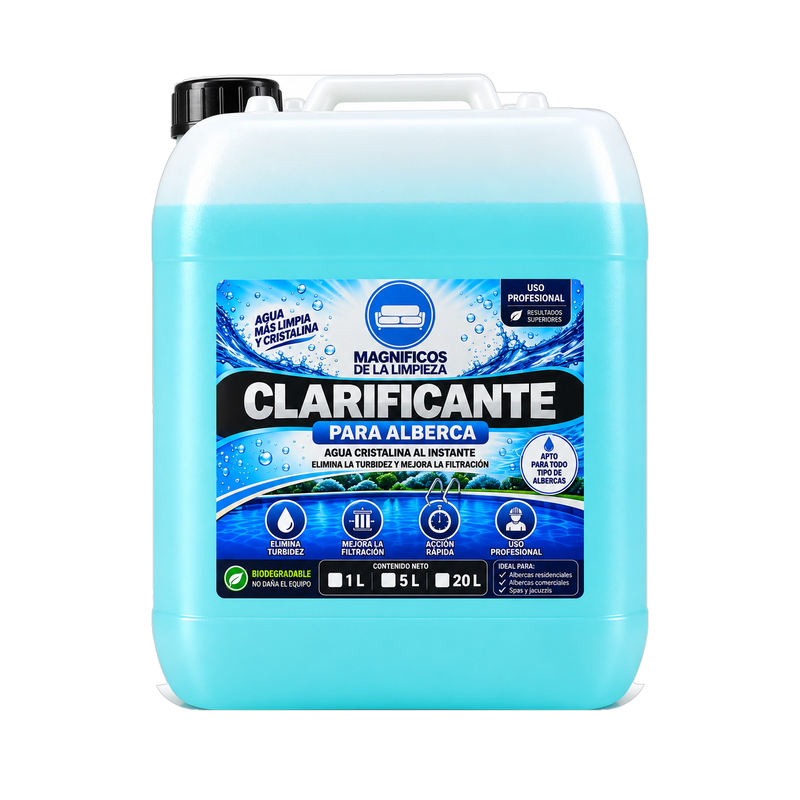
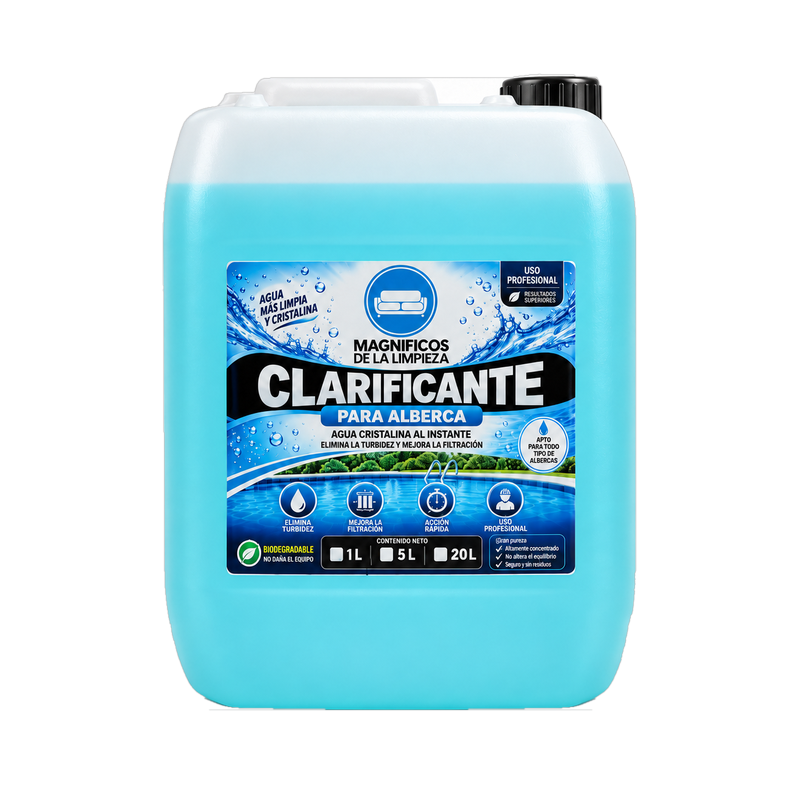
Nueva foto del Clarificante para alberca (Magníficos)
Diego mandó el mockup correcto del Clarificante para alberca. Se cambia
la imagen del cotizador (Cloudinary magnificos-clarificante-alberca-5l-v2)
y el PNG del generador de imagen del kit.

Claude-Session: https://claude.ai/code/session_01J8dYubPDQAzJzzmrxzVtMv

Changed region(s): [[0.1875, 0.0938, 0.8125, 0.9062]]

diff --git a/src/PedidoTabla.jsx b/src/PedidoTabla.jsx
@@ -1531,7 +1531,7 @@ const productCatalog = [
     mayoreo: 499.00,
     mostrador: 499.00,
     digital: 499.00,
-    image: "https://res.cloudinary.com/dl2s0vpwb/image/upload/f_auto,q_auto,w_400/magnificos/magnificos-clarificante-alberca-5l",
+    image: "https://res.cloudinary.com/dl2s0vpwb/image/upload/f_auto,q_auto,w_400/magnificos/magnificos-clarificante-alberca-5l-v2",
     kitImage: "/assets/magnificos/productos/magnificos-clarificante-alberca-5l.png",
   },
   {
